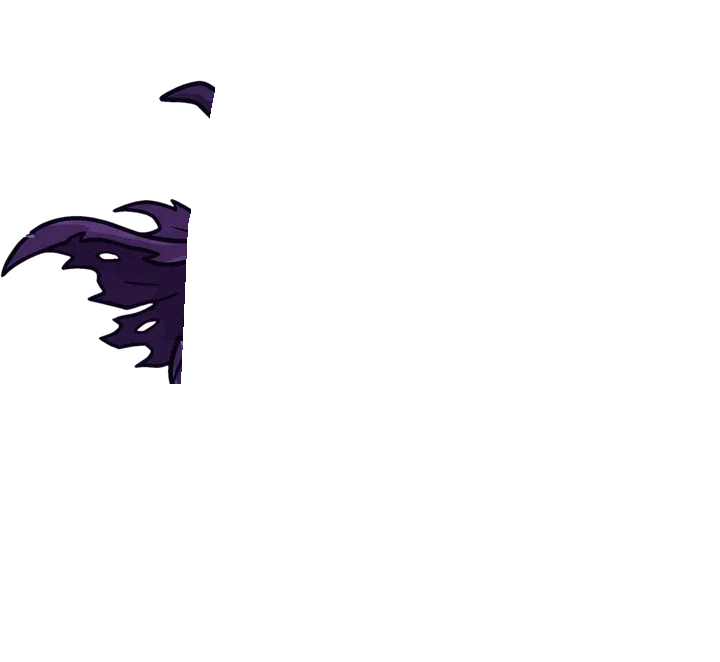
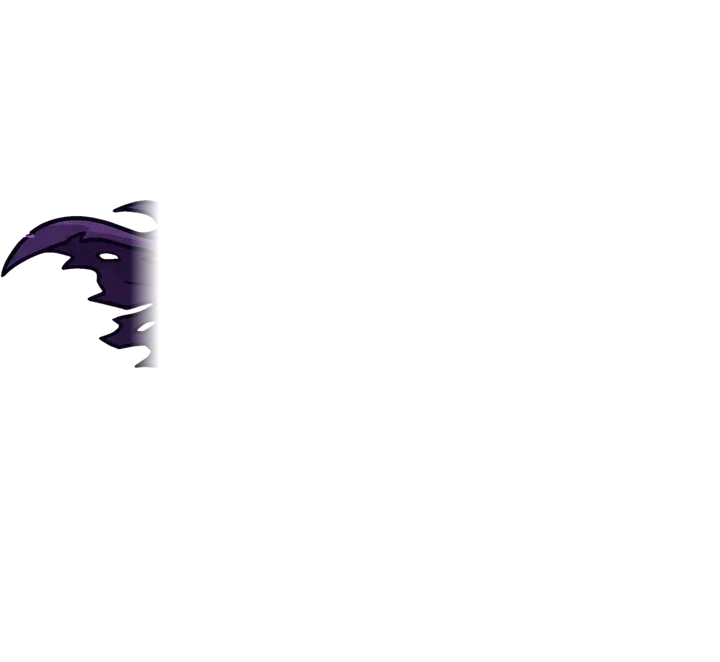
Halloween: capa fija al hombro, íconos propios en el globo y sin anillo punteado
Claude-Session: https://claude.ai/code/session_01DezhVgtjFZoxEn5KtBbC3A

Changed region(s): [[0.1833, 0.3021, 0.275, 0.574], [0.2139, 0.1208, 0.3056, 0.1813]]

diff --git a/assets/tema.js b/assets/tema.js
@@ -401,7 +401,7 @@
       '.hal-cripta .castillo{opacity:.85}',
       'html.tema-halloween .escena .nubes,html.tema-halloween .escena .plat{display:none}',
       'html.tema-halloween .escena::before{opacity:.35;filter:hue-rotate(60deg)}',
-      'html.tema-halloween .escena .halo{background:radial-gradient(circle,rgba(157,92,255,.45),transparent 65%)!important;animation:halLatido 3.4s ease-in-out infinite}',
+      'html.tema-halloween .escena .halo{border:0!important;background:radial-gradient(circle,rgba(157,92,255,.45),transparent 65%)!important;animation:halLatido 3.4s ease-in-out infinite}',
       '@keyframes halLatido{50%{opacity:.55;transform:scale(1.08)}}',
       '.hal-cripta{position:absolute;inset:0;z-index:-1;pointer-events:none}',
       '.hal-cripta svg{position:absolute;left:0;bottom:0;width:100%;height:auto}',
@@ -415,14 +415,16 @@
       '#buho .hal-senor{position:relative;display:block;width:100%;aspect-ratio:720/662;user-select:none;filter:drop-shadow(0 0 2px rgba(190,150,255,.7)) drop-shadow(0 0 18px rgba(157,92,255,.5));animation:halSenor 4s ease-in-out infinite}',
       '@keyframes halSenor{0%,100%{transform:translateY(0)}50%{transform:translateY(-3.5%);filter:drop-shadow(0 0 3px rgba(200,165,255,.85)) drop-shadow(0 0 28px rgba(157,92,255,.75))}}',
       '#buho .hal-senor img{position:absolute;inset:0;width:100%;height:100%;pointer-events:none}',
-      '#buho .hal-senor .capa{transform-origin:27% 30%;animation:halCapa 3.2s ease-in-out infinite}',
-      '@keyframes halCapa{0%,100%{transform:rotate(0) skewY(0)}35%{transform:rotate(-4deg) skewY(2deg)}70%{transform:rotate(2deg) skewY(-1.5deg)}}',
+      '#buho .hal-senor .capa{transform-origin:20% 34%;animation:halCapa 3.2s ease-in-out infinite}',
+      '@keyframes halCapa{0%,100%{transform:skewY(0) scaleX(1)}35%{transform:skewY(5deg) scaleX(1.04)}70%{transform:skewY(-3deg) scaleX(.97)}}',
       '#buho .hal-senor .fuego{animation:halFuego 2.2s ease-in-out infinite}',
       '@keyframes halFuego{0%,100%{transform:translateY(0);opacity:1;filter:brightness(1)}30%{opacity:.75}50%{transform:translateY(-2.5%);filter:brightness(1.35) hue-rotate(-15deg)}75%{opacity:.9}}',
       '#buho .hal-senor .ojo{position:absolute;top:27.5%;width:7%;aspect-ratio:1;translate:-50% -50%;border-radius:50%;background:radial-gradient(circle,rgba(255,170,255,.75),rgba(190,90,255,.35) 45%,transparent 70%);animation:halOjo 2.6s ease-in-out infinite}',
       '#buho .hal-senor .ojo::after{content:"";position:absolute;inset:6%;border-radius:50%;background:#2a1744;transform:scaleY(0);transform-origin:50% 0;animation:halParpadeo 5s infinite}',
       '@keyframes halOjo{50%{transform:scale(1.35);opacity:.6}}',
       '@keyframes halParpadeo{0%,92%,100%{transform:scaleY(0)}95%{transform:scaleY(1)}}',
+      'html.tema-halloween .globo .gi{background:#2a1150!important;box-shadow:inset 0 0 0 2px #FF8A1F,0 3px 0 rgba(0,0,0,.25)!important}',
+      'html.tema-halloween .globo .gi.hal-gi svg{width:24px;height:24px}',
       '#buho .hal-senor.conjuro{animation:halConjuro .7s ease-out}',
       '@keyframes halConjuro{30%{transform:scale(1.07) rotate(-2deg);filter:drop-shadow(0 0 34px #b98cff) brightness(1.25)}}',
       '.hal-llama{position:absolute;left:var(--x);top:var(--y);width:7%;aspect-ratio:.7;border-radius:50% 50% 50% 50%/60% 60% 40% 40%;background:radial-gradient(circle at 50% 70%,#E6FFD9,#7CFF8A 40%,rgba(80,220,120,0) 72%);mix-blend-mode:screen;animation:halLlama 1.8s ease-in-out infinite;pointer-events:none}',
@@ -483,6 +485,13 @@
             esc.appendChild(e); setTimeout(e.remove.bind(e), 1500);
           }
         });
+      }
+      // Cada mensaje del búho lleva un ícono de Halloween (dibujado, no emoji)
+      var gl = document.getElementById('globo');
+      if (gl && gl.querySelector('.gt') && !gl.querySelector('.gi')) {
+        var ICOS = [CALABAZA, FANTASMA, ALMA, MURCIELAGO];
+        var gi = document.createElement('span'); gi.className = 'gi hal-gi'; gi.innerHTML = ICOS[(gl.textContent.length) % ICOS.length];
+        gl.insertBefore(gi, gl.firstChild);
       }
       if (!bu.querySelector('.hal-senor')) {
         // Por capas: la capa ondea, el fuego del báculo titila y los ojos brillan y parpadean

diff --git a/assets/inicio.js b/assets/inicio.js
@@ -189,7 +189,7 @@
   /* ---------- Escena: fechas importantes (temática + tu agenda) ---------- */
   var fechas = [], evento = null;
   var CALABAZA = '<svg viewBox="0 0 32 32" aria-hidden="true"><path d="M16 9c-2-3-1-6 2-7" fill="none" stroke="#3f8a1e" stroke-width="2.6" stroke-linecap="round"/><ellipse cx="11" cy="19" rx="7.5" ry="9" fill="#e86a10"/><ellipse cx="21" cy="19" rx="7.5" ry="9" fill="#e86a10"/><ellipse cx="16" cy="19" rx="7" ry="9.6" fill="#ff8a1f"/><path d="M10 16l3 2-3 1zM22 16l-3 2 3 1zM10.5 23q5.5 4 11 0l-2 1-1.5-1.5-2 1.5-2-1.5-1.5 1.5z" fill="#3a1500"/></svg>';
-  var EVENTOS = { halloween: { nombre: 'Halloween', ico: CALABAZA, cls: 'f-hallo', emoji: '🎃' } };
+  var EVENTOS = { halloween: { nombre: 'Halloween', ico: CALABAZA, cls: 'f-hallo', emoji: '' } };
   function hoyLima() {
     try { return new Intl.DateTimeFormat('en-CA', { timeZone: 'America/Lima' }).format(new Date()); } catch (e) { return new Date().toISOString().slice(0, 10); }
   }
